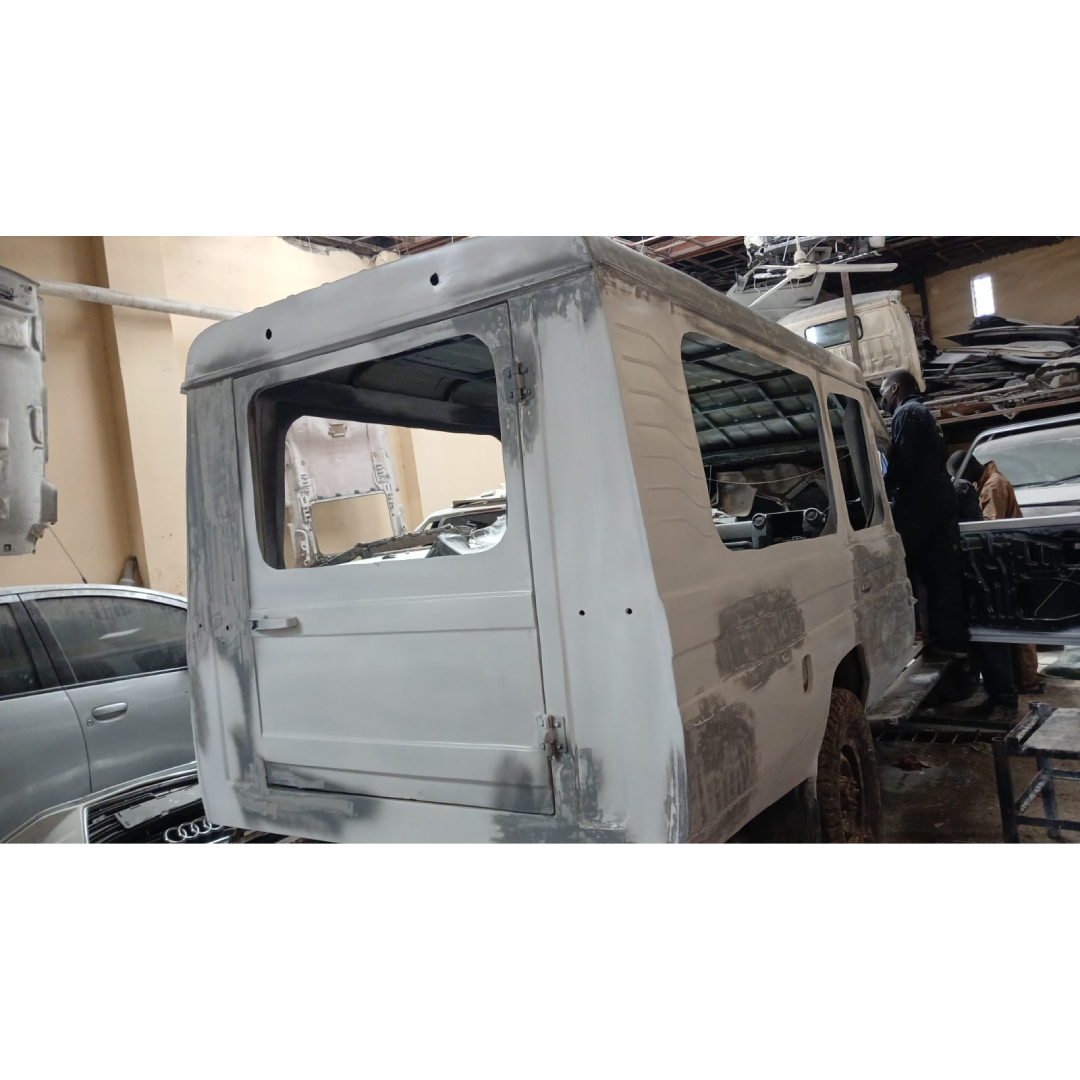
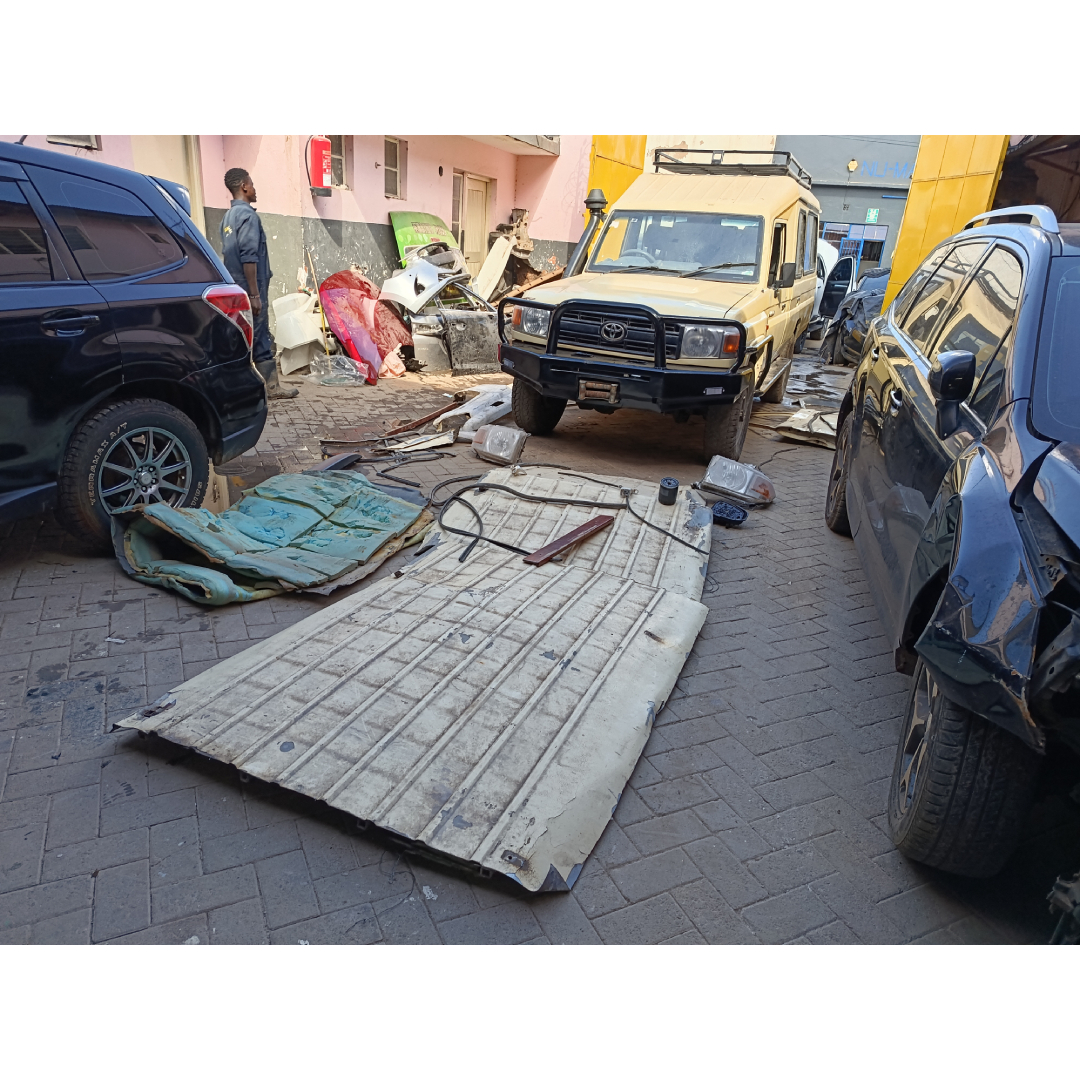
Added gallery images

diff --git a/gallery.html b/gallery.html
@@ -394,7 +394,10 @@
           { src: 'assets/images/gallery/07/before/04.jpg', alt: 'missing image' }
         ],
         after: [
-          { src: 'assets/images/gallery/07/after/01.jpg', alt: 'missing image' }
+          { src: 'assets/images/gallery/07/after/01.jpg', alt: 'missing image' },
+          { src: 'assets/images/gallery/07/after/02.jpg', alt: 'missing image' },
+          { src: 'assets/images/gallery/07/after/03.jpg', alt: 'missing image' },
+          { src: 'assets/images/gallery/07/after/04.jpg', alt: 'missing image' }
         ]
       },
       {
